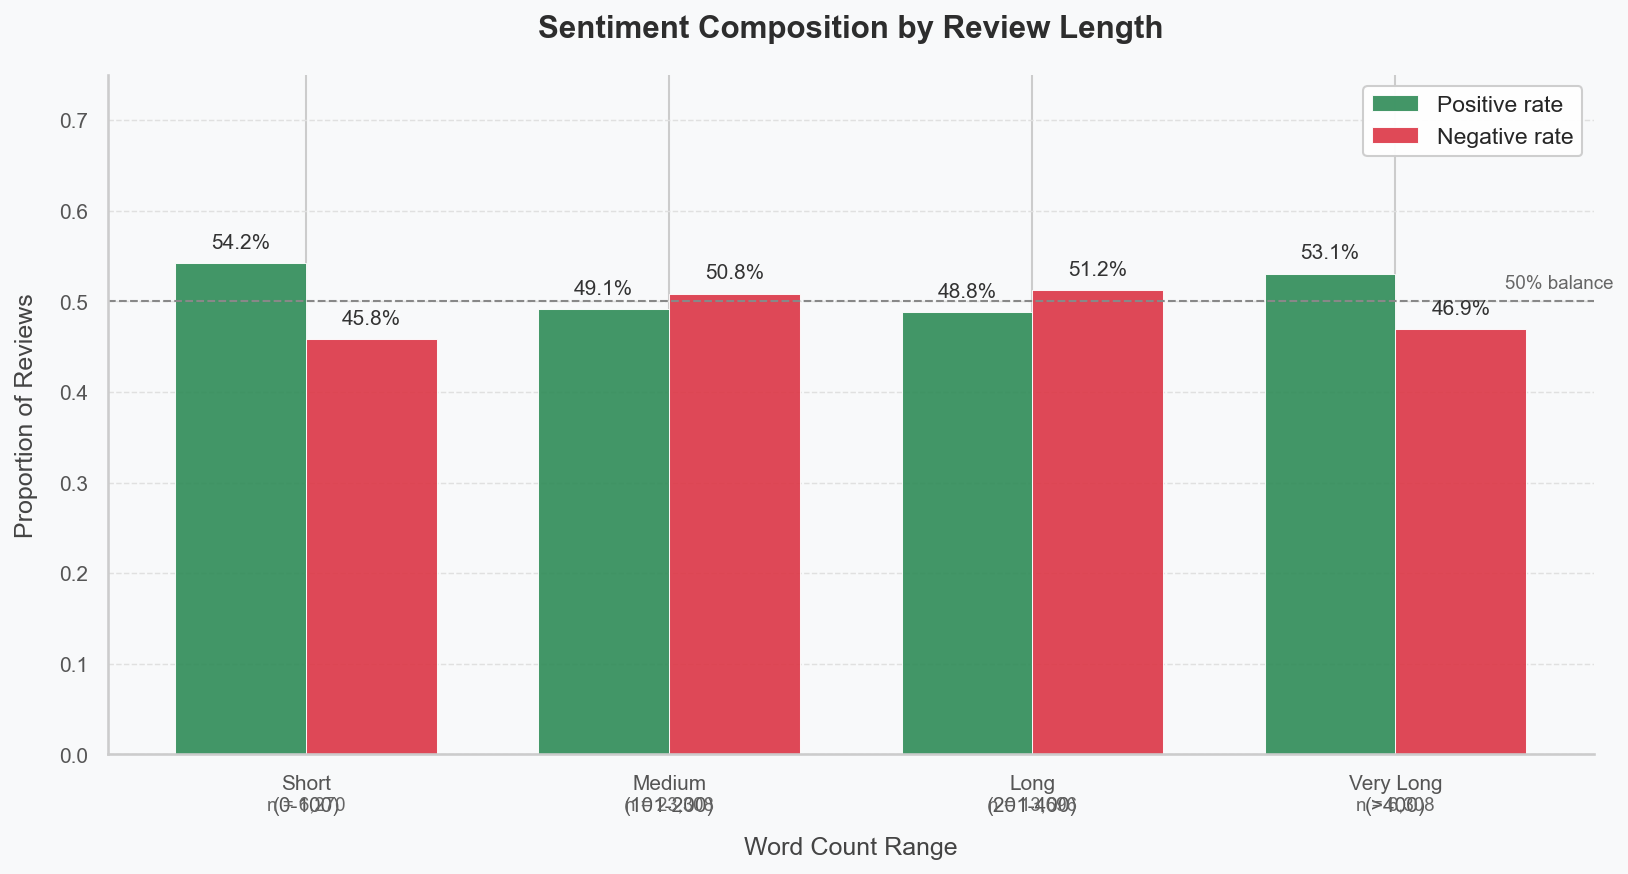
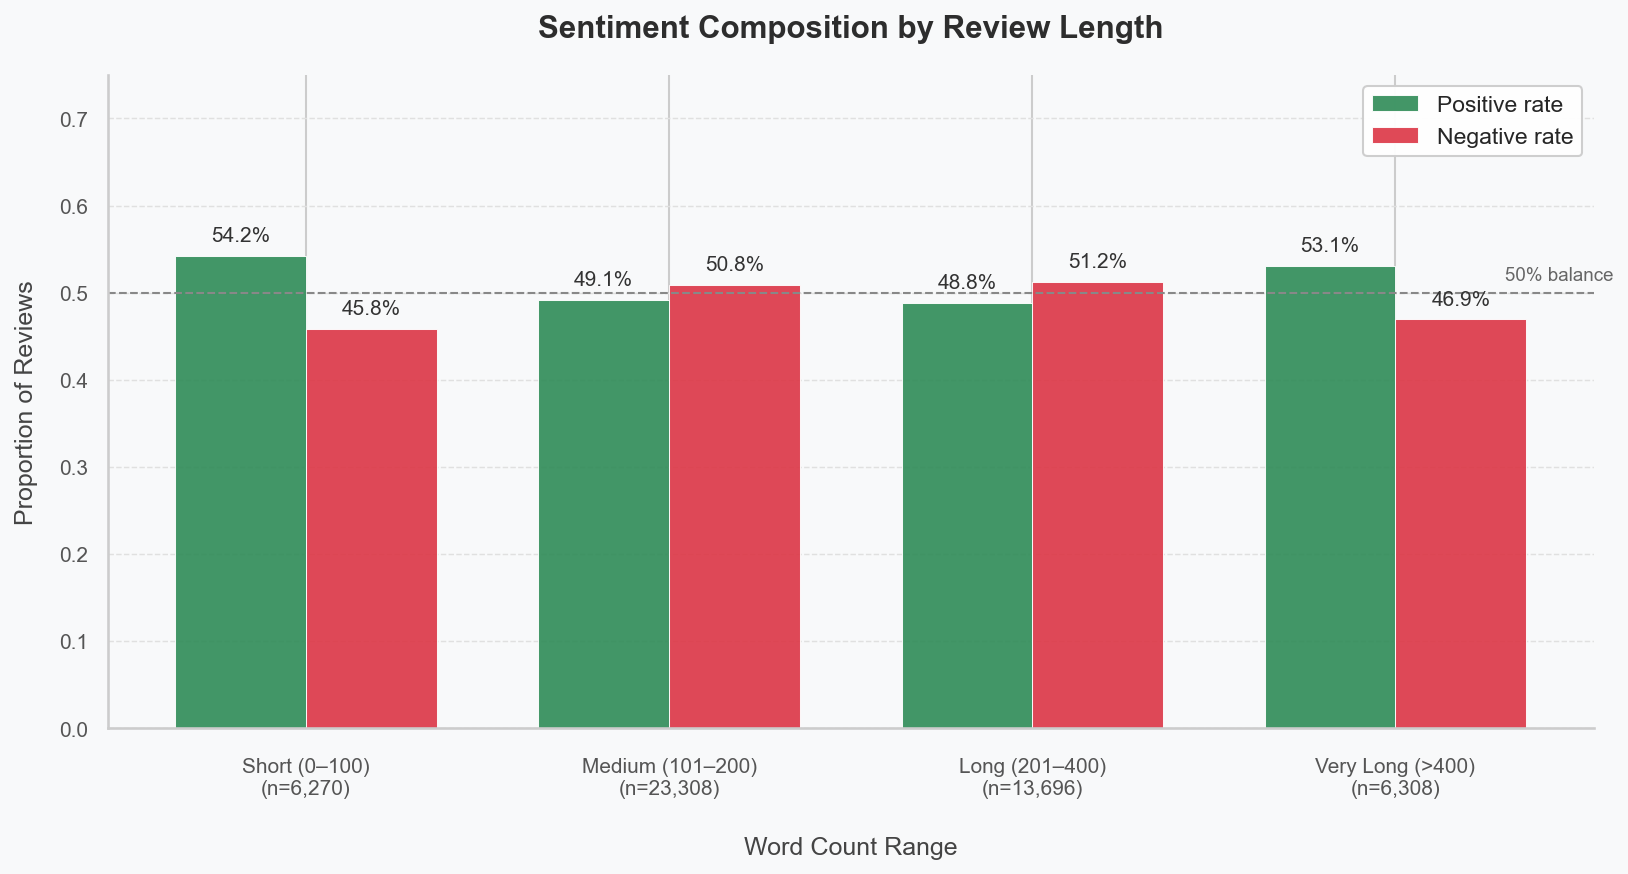
Update 05_length_sentiment.py and regenerate outputs

diff --git a/scripts/05_length_sentiment.py b/scripts/05_length_sentiment.py
@@ -295,55 +295,158 @@ print(f"   Saved: {out_path}")
 # 8. Visualization 2 — Sentiment rate per length bin
 # --------------------------------------------------------------------
 print("\n[2/3] Sentiment rate per length bin ...")
- 
+
 fig, ax = plt.subplots(figsize=(11, 6))
 fig.patch.set_facecolor(BG_COLOR)
 ax.set_facecolor(BG_COLOR)
- 
+
 x = np.arange(len(bin_summary))
 width = 0.36
- 
-bars_pos = ax.bar(x - width/2, bin_summary["positive_rate"], width=width,
-                  color=COLOR_POS, alpha=0.9, edgecolor="white", linewidth=0.5,
-                  label="Positive rate")
-bars_neg = ax.bar(x + width/2, bin_summary["negative_rate"], width=width,
-                  color=COLOR_NEG, alpha=0.9, edgecolor="white", linewidth=0.5,
-                  label="Negative rate")
- 
+
+bars_pos = ax.bar(
+    x - width/2,
+    bin_summary["positive_rate"],
+    width=width,
+    color=COLOR_POS,
+    alpha=0.9,
+    edgecolor="white",
+    linewidth=0.5,
+    label="Positive rate"
+)
+
+bars_neg = ax.bar(
+    x + width/2,
+    bin_summary["negative_rate"],
+    width=width,
+    color=COLOR_NEG,
+    alpha=0.9,
+    edgecolor="white",
+    linewidth=0.5,
+    label="Negative rate"
+)
+
 for bars in (bars_pos, bars_neg):
     for bar in bars:
         h = bar.get_height()
-        ax.text(bar.get_x() + bar.get_width()/2, h + 0.012,
-                f"{h:.1%}", ha="center", va="bottom",
-                fontsize=10, color="#333333")
- 
+        ax.text(
+            bar.get_x() + bar.get_width()/2,
+            h + 0.012,
+            f"{h:.1%}",
+            ha="center",
+            va="bottom",
+            fontsize=10,
+            color="#333333"
+        )
+
 # Reference line at 50%
-ax.axhline(0.5, color="#888888", linestyle="--", linewidth=1, zorder=1)
-ax.text(len(bin_summary) - 0.4, 0.51, "50% balance",
-        ha="right", va="bottom", fontsize=9, color="#666666")
- 
-ax.set_title("Sentiment Composition by Review Length",
-             fontsize=15, fontweight="bold", color="#2D2D2D", pad=18)
+ax.axhline(
+    0.5,
+    color="#888888",
+    linestyle="--",
+    linewidth=1,
+    zorder=1
+)
+
+ax.text(
+    len(bin_summary) - 0.4,
+    0.51,
+    "50% balance",
+    ha="right",
+    va="bottom",
+    fontsize=9,
+    color="#666666"
+)
+
+ax.set_title(
+    "Sentiment Composition by Review Length",
+    fontsize=15,
+    fontweight="bold",
+    color="#2D2D2D",
+    pad=18
+)
+
+# --------------------------------------------------
+# FIX: x-axis labels + n labels are combined cleanly
+# --------------------------------------------------
+
+xtick_labels = [
+    f"{label}\n(n={int(total):,})"
+    for label, total in zip(bin_labels, bin_summary["total"])
+]
+
 ax.set_xticks(x)
-ax.set_xticklabels(bin_labels, fontsize=10, color="#333333", ha="center")
-ax.set_xlabel("Word Count Range", fontsize=12, color="#444444", labelpad=10)
-ax.set_ylabel("Proportion of Reviews", fontsize=12, color="#444444", labelpad=10)
-ax.set_ylim(0, max(0.75, bin_summary[["positive_rate", "negative_rate"]].values.max() + 0.1))
+ax.set_xticklabels(
+    xtick_labels,
+    fontsize=10,
+    color="#333333",
+    ha="center"
+)
+
+ax.set_xlabel(
+    "Word Count Range",
+    fontsize=12,
+    color="#444444",
+    labelpad=18
+)
+
+ax.set_ylabel(
+    "Proportion of Reviews",
+    fontsize=12,
+    color="#444444",
+    labelpad=10
+)
+
+ax.set_ylim(
+    0,
+    max(
+        0.75,
+        bin_summary[["positive_rate", "negative_rate"]].values.max() + 0.1
+    )
+)
+
 ax.spines[["top", "right"]].set_visible(False)
 ax.spines[["left", "bottom"]].set_color("#CCCCCC")
-ax.tick_params(colors="#555555", labelsize=10)
-ax.grid(axis="y", color="#E0E0E0", linewidth=0.7, linestyle="--")
-ax.legend(fontsize=11, framealpha=0.95, edgecolor="#CCCCCC", facecolor="white")
- 
-# Add n labels inside the plot above x-axis
-for i, row in bin_summary.iterrows():
-    ax.text(i, 0.02, f"n={int(row['total']):,}", transform=ax.get_xaxis_transform(),
-            ha="center", va="bottom", fontsize=8, color="#666666")
- 
+
+ax.tick_params(
+    colors="#555555",
+    labelsize=10,
+    axis="x",
+    pad=8
+)
+
+ax.tick_params(
+    colors="#555555",
+    labelsize=10,
+    axis="y"
+)
+
+ax.grid(
+    axis="y",
+    color="#E0E0E0",
+    linewidth=0.7,
+    linestyle="--"
+)
+
+ax.legend(
+    fontsize=11,
+    framealpha=0.95,
+    edgecolor="#CCCCCC",
+    facecolor="white"
+)
+
+# Eski n label bloğu kaldırıldı.
+# Çünkü bu kısım değerleri x-axis etiketleriyle üst üste bindiriyordu.
+# 
+# for i, row in bin_summary.iterrows():
+#     ax.text(i, 0.02, f"n={int(row['total']):,}", transform=ax.get_xaxis_transform(),
+#             ha="center", va="bottom", fontsize=8, color="#666666")
+
 plt.tight_layout()
+
 out_path = FIGURES_DIR / "sentiment_rate_by_length_bin.png"
 plt.savefig(out_path, dpi=150, bbox_inches="tight")
 plt.close(fig)
+
 print(f"   Saved: {out_path}")
  
 # --------------------------------------------------------------------